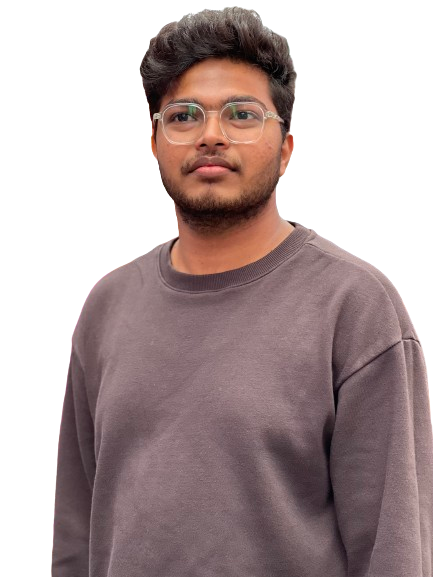
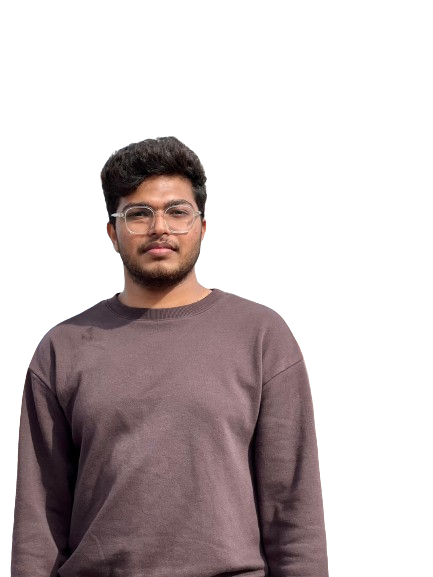
update

diff --git a/index.html b/index.html
@@ -37,12 +37,32 @@
         <main class="l-main">
             <!--===== HOME =====-->
             <section class="home bd-grid" id="home">
-                <div class="home__data">
-                    <h1 class="home__title">Hi,<br>I'am <span class="home__title-color">Chethan</span></h1>
-
-                    <a href="mailto:chethanpolanki@gmail.com" class="button">Contact</a>
-
+                <style>                
+                    .black-and-white {
+                    filter: grayscale(100%);
+                    }
+                </style>
+                <div class="home__img">
+                    <svg class="home__blob" viewBox="0 0 479 467" xmlns="http://www.w3.org/2000/svg" xmlns:xlink="http://www.w3.org/1999/xlink">
+                        <mask id="mask0" mask-type="alpha">
+                            <path d="M9.19024 145.964C34.0253 76.5814 114.865 54.7299 184.111 29.4823C245.804 6.98884 311.86 -14.9503 370.735 14.143C431.207 44.026 467.948 107.508 477.191 174.311C485.897 237.229 454.931 294.377 416.506 344.954C373.74 401.245 326.068 462.801 255.442 466.189C179.416 469.835 111.552 422.137 65.1576 361.805C17.4835 299.81 -17.1617 219.583 9.19024 145.964Z"/>
+                        </mask>
+                        <g mask="url(#mask0)">
+                            <path d="M9.19024 145.964C34.0253 76.5814 114.865 54.7299 184.111 29.4823C245.804 6.98884 311.86 -14.9503 370.735 14.143C431.207 44.026 467.948 107.508 477.191 174.311C485.897 237.229 454.931 294.377 416.506 344.954C373.74 401.245 326.068 462.801 255.442 466.189C179.416 469.835 111.552 422.137 65.1576 361.805C17.4835 299.81 -17.1617 219.583 9.19024 145.964Z"/>
+                            <image class="home__blob-img black-and-white" x="100" y="0" href="assets/img/profile.jpg"/>
+                              
+                        </g>
+                    </svg>
                 </div>
+                <div class="home__data" x="100">
+                    <h1 class="home__title">
+                        Hi, I am <span class="home__title-color"><br>Chethan Polanki</span>
+                    </h1>
+                    <h2 class="home__subtitle">Co Founder and CEO of Asyst</h2>
+                    <br>
+                    <a href="mailto:chethanpolanki+mywebsite@gmail.com" class="button">Contact</a>
+                </div>
+                
 
                 <div class="home__social">
                     <a href="https://www.linkedin.com/in/chethan-polanki/" class="home__social-icon"><i class='bx bxl-linkedin'></i></a>
@@ -56,17 +76,6 @@
 <script type="text/javascript">window.onload = function() { Calendly.initBadgeWidget({ url: 'https://calendly.com/chethanpolanki/meet-with-chethan?hide_gdpr_banner=1', text: "Let's schedule a meeting!", color: '#0d1730', textColor: '#ffffff', branding: undefined }); }</script>
 <!-- Calendly badge widget end -->
 
-                <div class="home__img">
-                    <svg class="home__blob" viewBox="0 0 479 467" xmlns="http://www.w3.org/2000/svg" xmlns:xlink="http://www.w3.org/1999/xlink">
-                        <mask id="mask0" mask-type="alpha">
-                            <path d="M9.19024 145.964C34.0253 76.5814 114.865 54.7299 184.111 29.4823C245.804 6.98884 311.86 -14.9503 370.735 14.143C431.207 44.026 467.948 107.508 477.191 174.311C485.897 237.229 454.931 294.377 416.506 344.954C373.74 401.245 326.068 462.801 255.442 466.189C179.416 469.835 111.552 422.137 65.1576 361.805C17.4835 299.81 -17.1617 219.583 9.19024 145.964Z"/>
-                        </mask>
-                        <g mask="url(#mask0)">
-                            <path d="M9.19024 145.964C34.0253 76.5814 114.865 54.7299 184.111 29.4823C245.804 6.98884 311.86 -14.9503 370.735 14.143C431.207 44.026 467.948 107.508 477.191 174.311C485.897 237.229 454.931 294.377 416.506 344.954C373.74 401.245 326.068 462.801 255.442 466.189C179.416 469.835 111.552 422.137 65.1576 361.805C17.4835 299.81 -17.1617 219.583 9.19024 145.964Z"/>
-                            <image class="home__blob-img" x="50" y="60" href="assets/img/profile.jpg"/>
-                        </g>
-                    </svg>
-                </div>
             </section>
 
             <!--===== ABOUT =====-->
@@ -75,20 +84,20 @@
 
                 <div class="about__container bd-grid">
                     <div class="about__img">
-                        <img src="assets/img/work4.jpg" alt="">
+                        <img src="assets/img/work4.png" alt="">
                     </div>
                     
                     <div>
                         <h2 class="about__subtitle">I am an Entrepreneur and a 4th Year B.Tech student</h2>     
-                        <p class="about__text"> An entrepreneur driven by a passion for leveraging the latest technologies to solve real-world problems. My journey began with a vision to make a positive impact on society, and that vision continues to inspire everything I do.</p>
+                        <p class="about__text"> My perspective is to add value to the customer not only through the product but also by creating a distinct market presence. The second aspect is to build ecosystems and communities, fostering trust that, in turn, reduces the Customer Acquisition Cost (CAC). One of my biggest strengths is the ability to view things at two different levels: a bird's-eye view and a layman's perspective.</p>
                         <br>
                         
-                        <h2 class="about__subtitle">My Mission</h2>
-                        <p class="about__text">My mission is simple yet powerful: to use cutting-edge technologies to drive positive change. I believe that by combining innovation with a deep sense of purpose, we can overcome challenges and create a better future for all.</p>
+                        <h2 class="about__subtitle">My Goals</h2>
+                        <p class="about__text">My future goal has remained consistent throughout my journey: to solve complex problems for society and shift their living orbit. Building a tech company will offer opportunities to achieve this goal by adding value to our organization, and the ongoing learning experiences will continuously contribute to my personal growth and the development of the organizations.</p>
                         <br>
 
                         <h2 class="about__subtitle">What I Do</h2>
-                        <p class="about__text">At Asyst Intelligent Systems, A recent Startup. We specialize in developing and implementing technological solutions that address specific challenges faced by individuals and communities using Artificial Intelligence (AI). Whether it's enhancing efficiency, improving accessibility, or fostering sustainability, my work is centred around creating meaningful and lasting impact.</p>
+                        <p class="about__text">At Asyst Intelligent Systems, A recent Startup. We specialize in developing and implementing technological solutions that address specific challenges faced by Individuals and Organisations using Artificial Intelligence (AI). Whether it's enhancing efficiency, improving accessibility, or fostering sustainability, my work is centred around creating meaningful and lasting impact.</p>
                     </div>                                   
                 </div>
             </section>
